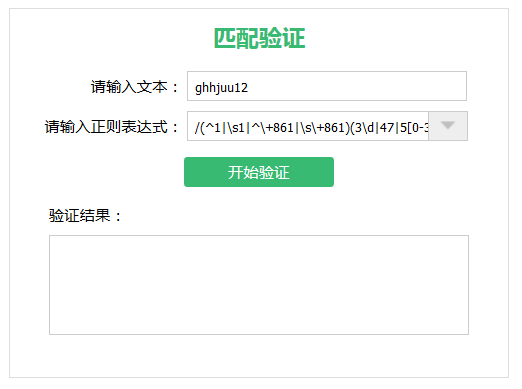
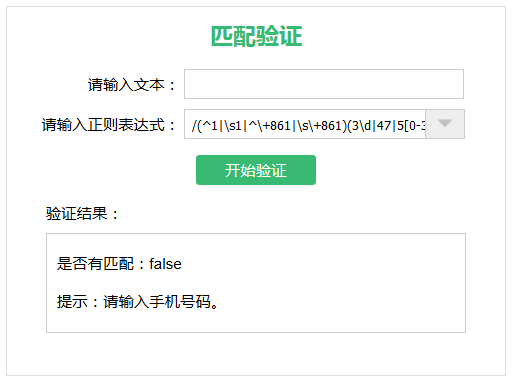
RegExp

diff --git a/RegExp/js/regExp.js b/RegExp/js/regExp.js
@@ -27,6 +27,9 @@ window.onload = function() {
 			oReg.value = '';
 			oLi[i].onclick = function() {
 				oReg.value = reg[this.index];
+				if (reg[this.index] === '') {
+					oReg.focus();
+				}
 			}
 		}
 	}
@@ -48,7 +51,6 @@ window.onload = function() {
 			testReword(testTxt, regExp, oResult);
 			// alert(regExp);
 		} else {
-			// alert(regExp);
 			testSelfDef(testTxt, regExp, oResult);
 		}
 	}
@@ -82,10 +84,19 @@ window.onload = function() {
 		var Reg = eval(reg);
 		var matchT = text.match(Reg);
 		var item = '';
-		if (matchT) {
-			item += '<p>是否有匹配：true</p><p>您的匹配项是：' + matchT + '</p>';
+		if (text === '' && reg === '') {
+			item += '<p>请输入待匹配的文本和正则表达式！</p>'
+		} else if (text === '') {
+			item += '<p>请输入待匹配的文本！</p>'
+		} else if (reg === '') {
+			item += '<p>请输入正则表达式！</p>'
 		} else {
-			item += '<p>是否有匹配：false</p><p>提示：没有找到匹配项。</p>'
+			if (matchT) {
+				item += '<p>是否有匹配：true</p><p>您的匹配项是：' + matchT + '</p>';
+			} else {
+				item += '<p>是否有匹配：false</p><p>提示：没有找到匹配项。</p>'
+			}
+			node.innerHTML = item;
 		}
 		node.innerHTML = item;
 	}

diff --git a/RegExp/css/style.css b/RegExp/css/style.css
@@ -46,6 +46,9 @@ img{
 	top: 4px;
 	right: 17px;
 }
+img:hover{
+	cursor: pointer;
+}
 ul{
 	width: 280px;
 	height: 78px;	
@@ -70,18 +73,23 @@ li{
 li:hover{
 	width: 278px;
 	background-color: #f3f3f3;	
+	cursor: pointer;
 }
 #btn{
-	width: 150px;
+	width: 120px;
 	height: 30px;
 	font-size: 1em;
 	color: #fff;
 	background-color: #38BA72;
-	text-align: center;
+	text-align: center;	
 	border: none;
 	border-radius: 3px;
 	margin: 10px auto;
 	display: block;
+}
+#btn:hover{
+	background-color: #4CC665;
+	cursor: pointer;
 }
 .result{
 	width: 420px;
@@ -158,6 +166,9 @@ li:hover{
 	li:hover{
 		width: 99.9%;
 		background-color: #f3f3f3;	
+	}
+	#btn{
+		width: 100%;
 	}
 	.result{
 		width: 100%;	
